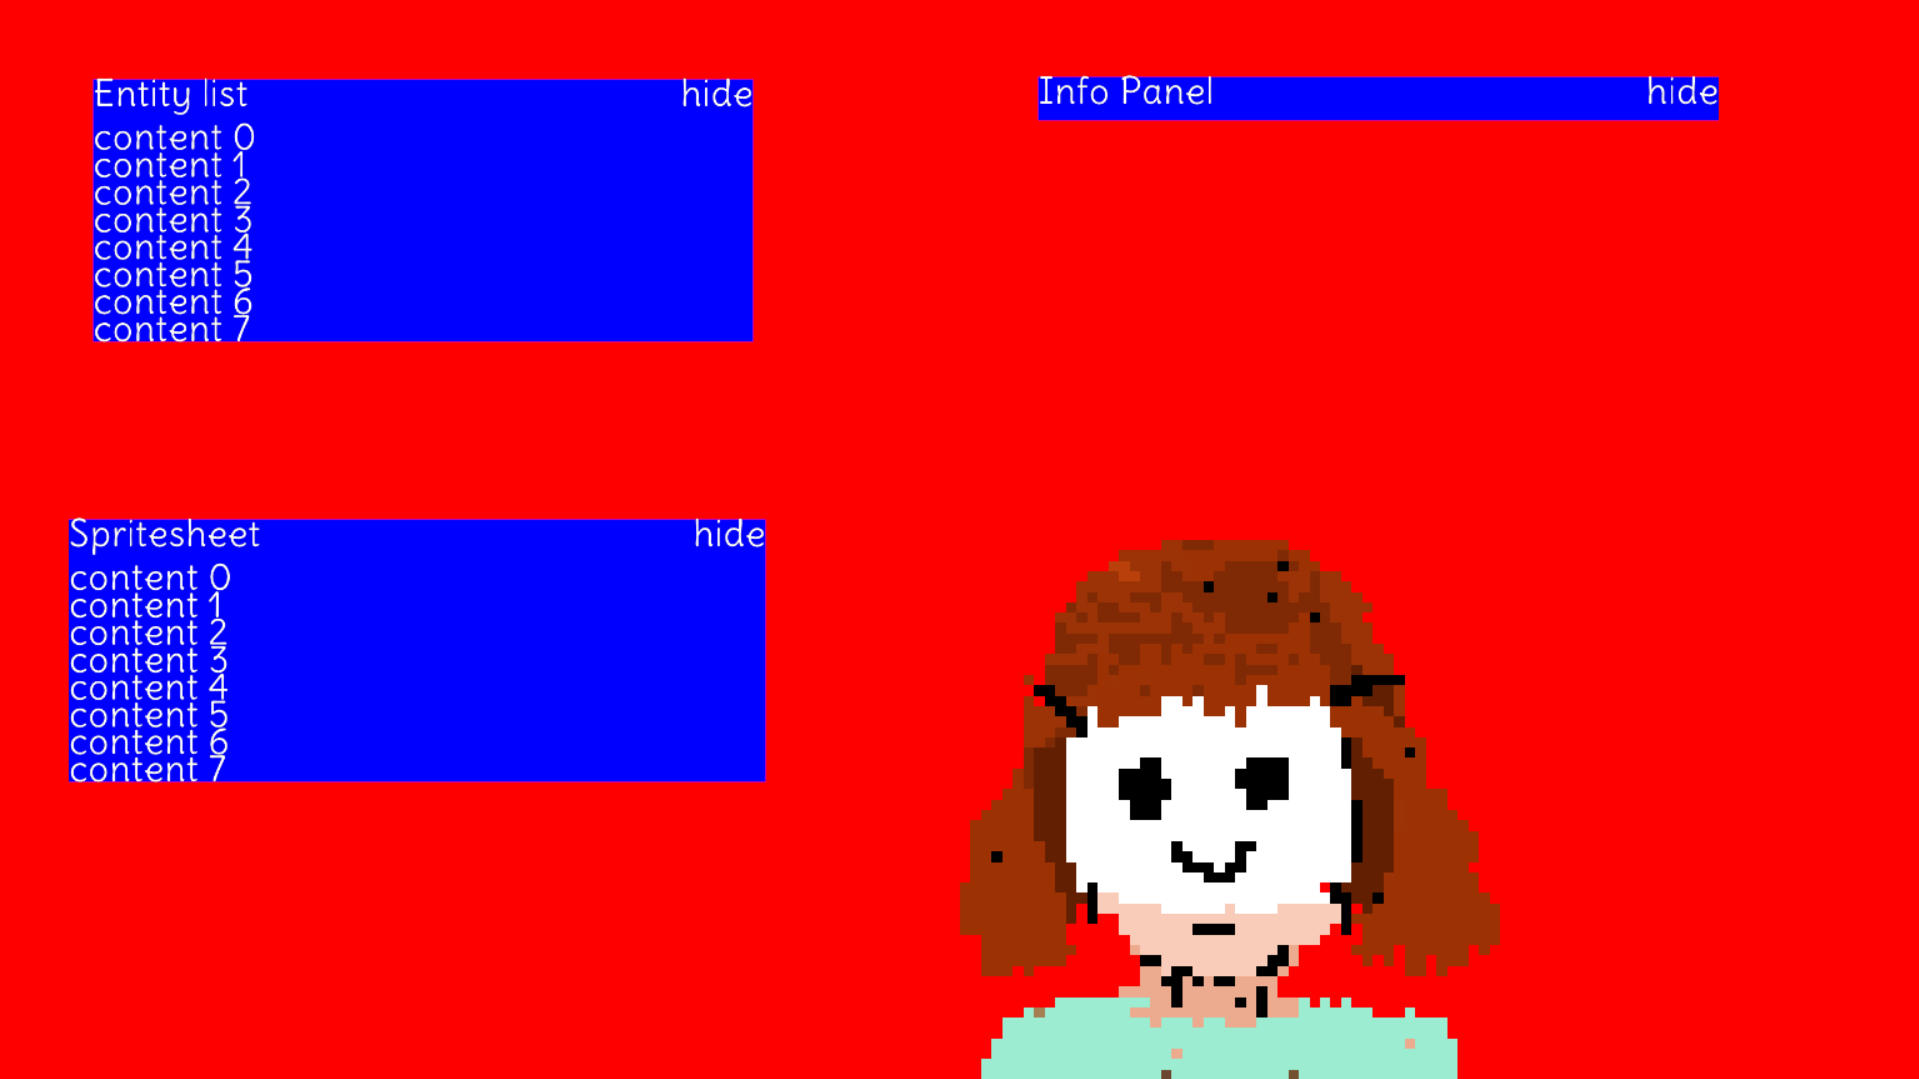
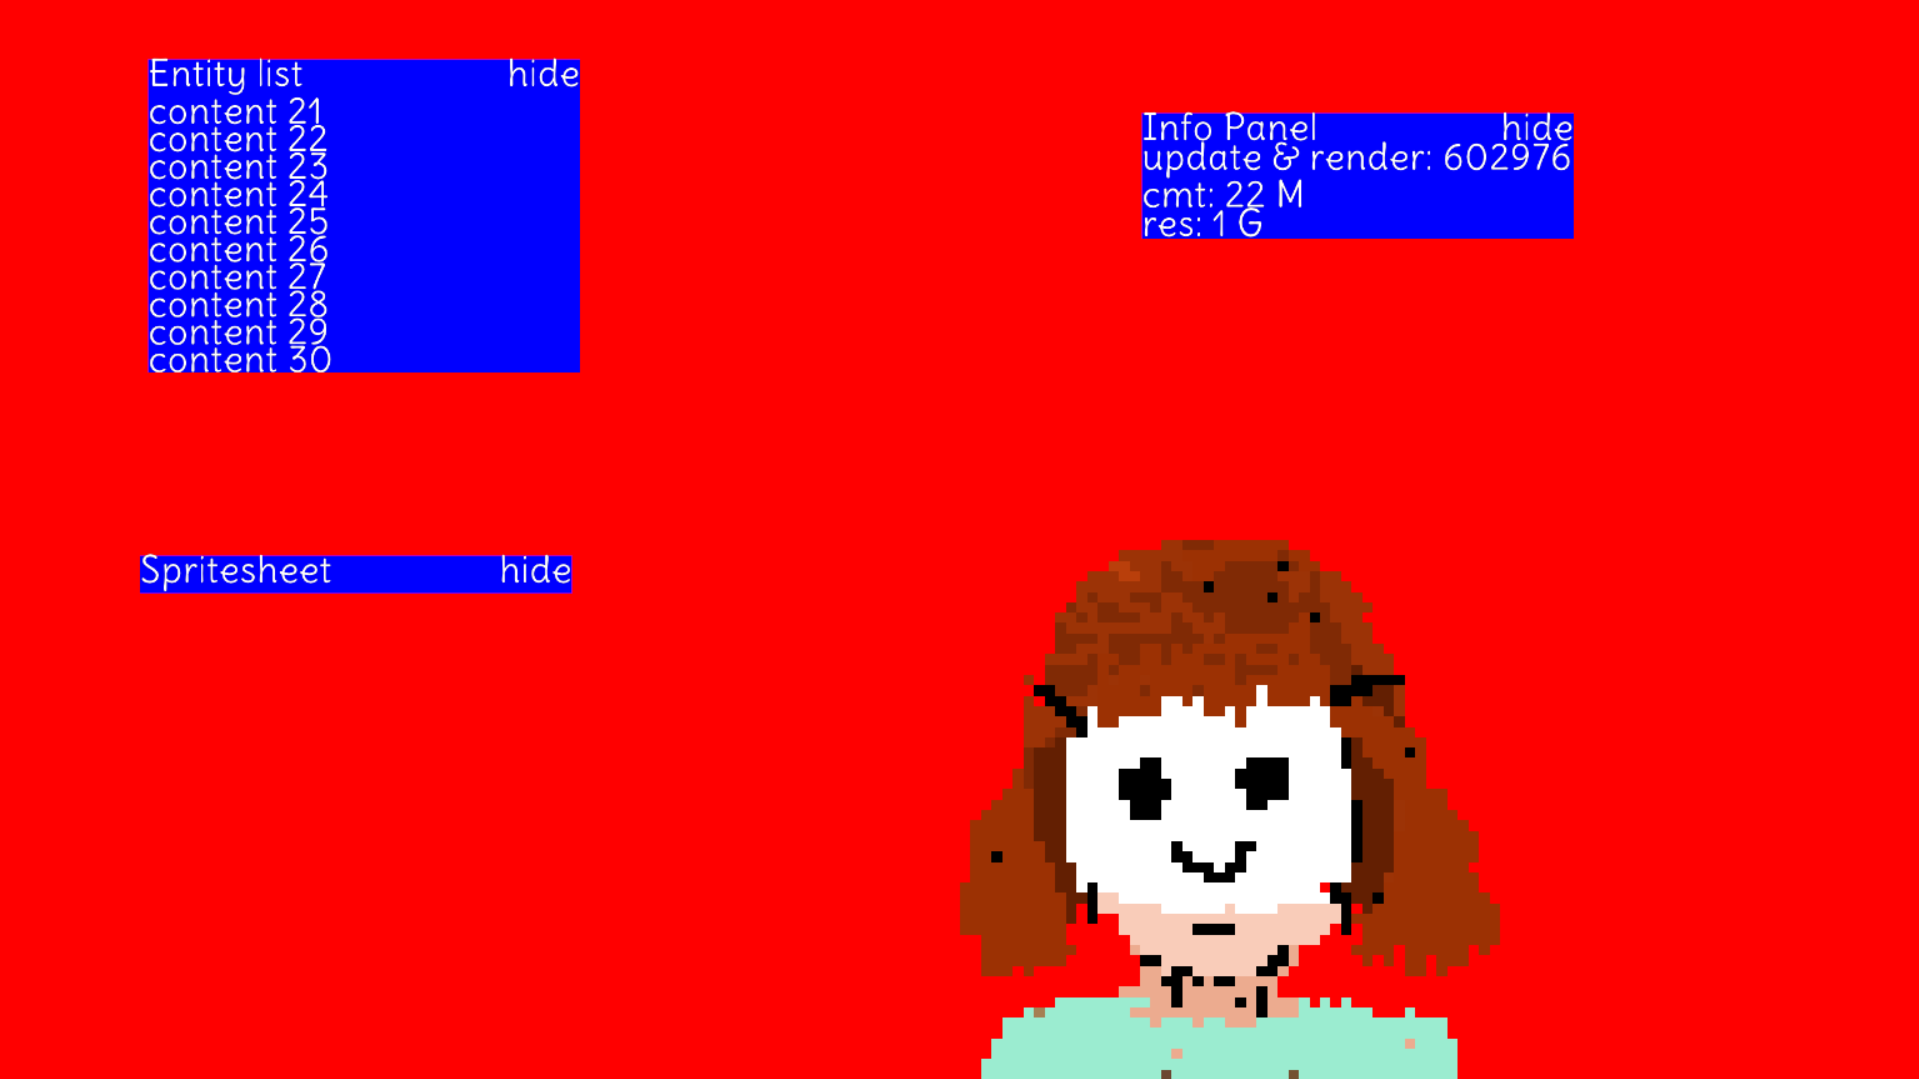
hash collisions handled

Changed region(s): [[0.0307, 0.4588, 0.3997, 0.734], [0.0307, 0.0306, 0.3997, 0.367], [0.5227, 0.0612, 0.8916, 0.2447]]

diff --git a/code/saoirse.cpp b/code/saoirse.cpp
@@ -14,20 +14,50 @@ internal void ui_end(UI_Context *cxt)
 	
 	for(i32 i = 0; i < cxt->hash_table_size; i++)
 	{
-		UI_Widget *hashed = (cxt->hash_slots + i)->first;
-		if(!hashed)
+		UI_Widget *first_hash = (cxt->hash_slots + i)->first;
+		if(!first_hash)
 		{
 			continue;
 		}
-		if(hashed->last_frame_touched_index != cxt->frames)
+		if(first_hash)
 		{
-			//printf("pruned %s\n", hashed->text.c);
-			ui_free_widget(cxt, hashed);
-			cxt->hash_slots[i].first = 0;
-		}
-		else
-		{
-			//printf("cache %s\n", hashed->text.c);
+			UI_Widget *cur = first_hash;
+UI_Widget *prev = 0;
+while(cur)
+{
+    if(cur->last_frame_touched_index != cxt->frames)
+    {
+		//printf("pruned %.*s\n", str8_varg(cur->text));
+    
+        if(prev)
+        {
+            prev->hash_next = cur->hash_next;
+            if (!cur->hash_next)
+            {
+                (cxt->hash_slots + i)->last = prev;
+            }
+        }
+        else
+        {
+            (cxt->hash_slots + i)->first = cur->hash_next;
+            if (!cur->hash_next)
+            {
+                (cxt->hash_slots + i)->last = 0;
+            }
+        }
+
+        UI_Widget *to_free = cur;
+        cur = cur->hash_next;
+        ui_free_widget(cxt, to_free);
+    }
+    else
+    {
+        prev = cur;
+        cur = cur->hash_next;
+    }
+}
+
+
 		}
 	}
 	//printf("\n");
@@ -163,11 +193,11 @@ internal void update_window(S_Platform *pf, Input *input, Window *win, D_Bucket 
 				
 				Arena_temp temp_arena = scratch_begin(0,0);
 				//* 1e-6
-				Str8 cmt_mem = push_str8f(temp_arena.arena, "cmt: %llu M", (u64)(pf->cmt));
+				Str8 cmt_mem = push_str8f(temp_arena.arena, "cmt: %llu M", (u64)(pf->cmt * 1e-6));
 				Str8 res_mem = push_str8f(temp_arena.arena, "res: %llu G", (u64)(pf->res * 1e-9));
 				
 				Str8 clocks =  push_str8f(temp_arena.arena, "update & render: %llu", tcxt.counters_last[DEBUG_CYCLE_COUNTER_UPDATE_AND_RENDER].cycle_count);
-				//ui_label(cxt, clocks);
+				ui_label(cxt, clocks);
 				ui_label(cxt, cmt_mem);
 				ui_label(cxt, res_mem);
 				
@@ -309,7 +339,7 @@ void update_and_render(S_Platform * pf, Input *input)
 	f32 aspect = (pf->win_size.x * 1.f)/ pf->win_size.y;
 	d_push_proj_view(&state->draw, m4f_ortho(-aspect * zoom, aspect * zoom, -zoom, zoom, -1.001, 1000).fwd);
 	
-	for(i32 i = 2; i < 3; i++)
+	for(i32 i = 0; i < 3; i++)
 	{
 		//printf("%d \n", i);
 		update_window(pf, input, state->win + i, &state->draw);

diff --git a/code/ui.h b/code/ui.h
@@ -50,7 +50,7 @@ struct UI_Widget
   UI_Widget *next;
   UI_Widget *prev;
   UI_Widget *parent;
-	u64 num_child;
+  u64 num_child;
 	
 	UI_Widget *hash_next;
 	UI_Widget *hash_prev;
@@ -399,13 +399,13 @@ internal UI_Widget *ui_make_widget(UI_Context *cxt, Str8 text)
 		
 		if(cxt->hash_slots[slot].last)
 		{
-//			cxt->hash_slots[slot].last
+			cxt->hash_slots[slot].last = cxt->hash_slots[slot].last->hash_next = widget;
 		}
 		else
 		{
-			
+			cxt->hash_slots[slot].last = cxt->hash_slots[slot].first = widget;
 		}
-		cxt->hash_slots[slot].first = widget;
+//		cxt->hash_slots[slot].first = widget;
 		widget->last_frame_touched_index = cxt->frames;
 		widget->id = cxt->num++;
 	}
